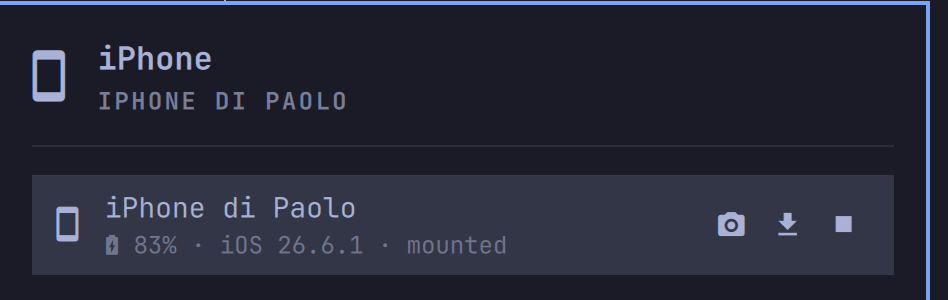
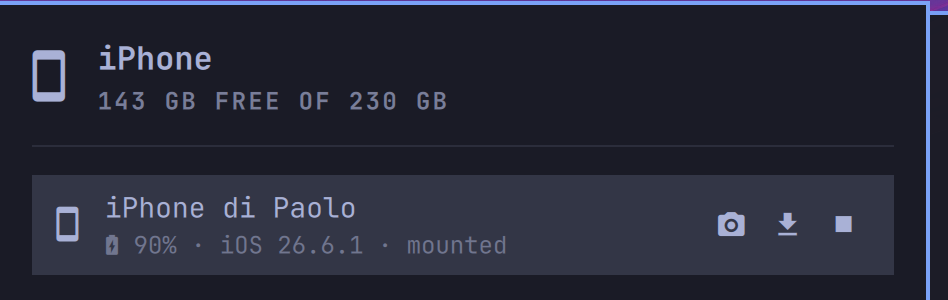
Show free space in the panel header instead of repeating the device name
The device name already labels its row, so the header's second line
repeated it. It now shows the phone's free space ("143 GB free of 230 GB")
for a single paired device — read from the disk_usage domain we already
had a query pattern for — and keeps the count summary for the
multiple-device cases.

Claude-Session: https://claude.ai/code/session_01Ft6HkiSqz9T5DDe5ihzwmZ

Changed region(s): [[0.0, 0.0, 1.0, 0.06], [0.0918, 0.3, 0.4895, 0.39], [0.1224, 0.78, 0.1835, 0.84]]

diff --git a/Model.js b/Model.js
@@ -2,7 +2,7 @@
 // each pairing state offers, and turning tool vocabulary into words. Kept
 // free of QML types so the panel stays a thin renderer.
 
-var STATUS_FIELDS = 7
+var STATUS_FIELDS = 9
 var DEPS_FIELDS = 2
 
 var MAX_INPUT = 65536    // characters accepted from one helper run
@@ -59,6 +59,8 @@ function parseStatus(raw) {
     if (f.length < STATUS_FIELDS) continue
     var state = clip(f[2])
     var batt = parseInt(f[3], 10)
+    var free = parseInt(f[7], 10)
+    var total = parseInt(f[8], 10)
     rows.push({
       udid: clip(f[0]),
       name: clip(f[1]) || "iPhone",
@@ -67,6 +69,8 @@ function parseStatus(raw) {
       charging: f[4] === "1",
       mounted: f[5] === "1",
       ios: clip(f[6]),
+      freeBytes: isNaN(free) ? -1 : free,
+      totalBytes: isNaN(total) ? -1 : total,
       paired: state === "paired",
       active: stateRules(state).active
     })
@@ -265,6 +269,25 @@ function summary(rows) {
   return rows.length + (rows.length === 1 ? " device" : " devices") + " · " + (rows.length - paired) + " to pair"
 }
 
+// Free space on the phone, formatted with the same helper as import sizes.
+function storageText(row) {
+  if (!row || row.freeBytes < 0) return ""
+  if (row.totalBytes > 0) return humanSize(row.freeBytes) + " free of " + humanSize(row.totalBytes)
+  return humanSize(row.freeBytes) + " free"
+}
+
+// The panel's second heading line. For one paired phone it shows free space
+// rather than repeating the name that already labels the row below; the
+// many-device cases keep the count summary.
+function heroSubtitle(rows) {
+  if (rows.length === 0) return "No iPhone connected"
+  if (rows.length === 1 && rows[0].paired) {
+    var s = storageText(rows[0])
+    return s !== "" ? s : "Connected"
+  }
+  return summary(rows)
+}
+
 // The one number the bar paints. -1 means nothing worth painting.
 function barBattery(rows) {
   for (var i = 0; i < rows.length; i++)
@@ -339,6 +362,8 @@ if (typeof module !== "undefined") {
     stateText: stateText,
     busyLabel: busyLabel,
     summary: summary,
+    storageText: storageText,
+    heroSubtitle: heroSubtitle,
     barBattery: barBattery,
     attentionCount: attentionCount,
     clampIndex: clampIndex,

diff --git a/Panel.qml b/Panel.qml
@@ -479,7 +479,7 @@ Panel {
             }
 
             Text {
-              text: (root.listError !== "" ? Model.errorText(root.listError) : Model.summary(root.rows)).toUpperCase()
+              text: (root.listError !== "" ? Model.errorText(root.listError) : Model.heroSubtitle(root.rows)).toUpperCase()
               color: root.listError !== "" ? root.bar.urgent : Qt.darker(root.bar.foreground, 1.4)
               font.family: root.bar.fontFamily
               font.pixelSize: Style.font.caption
